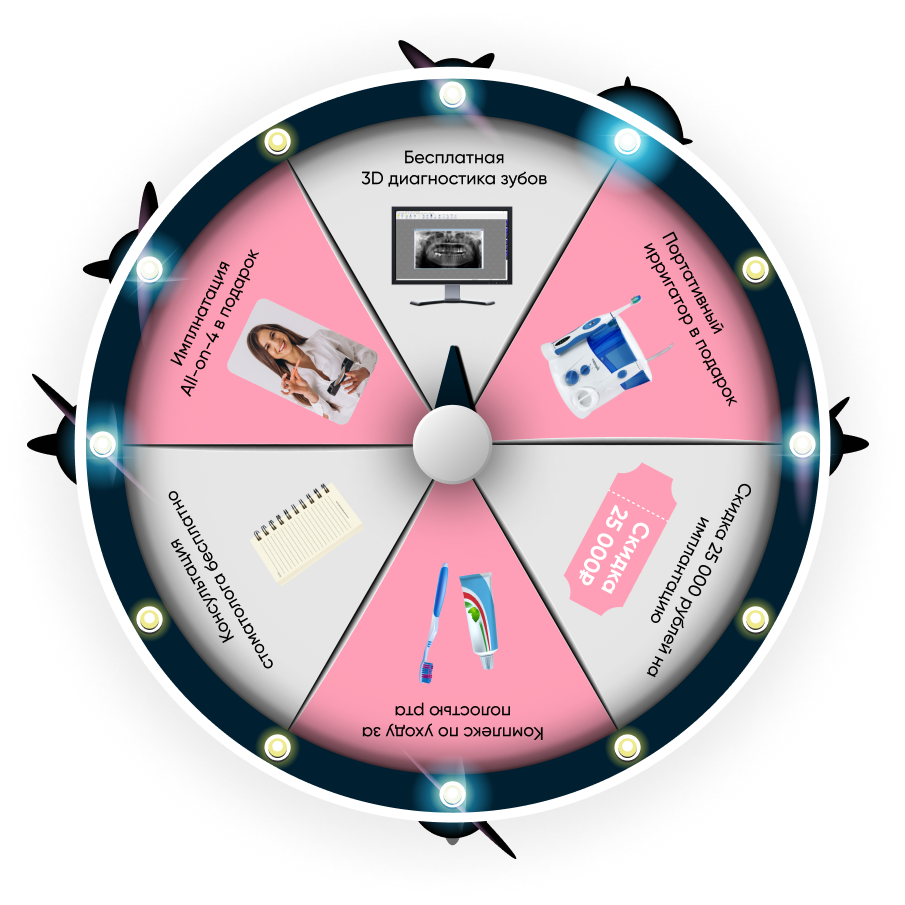
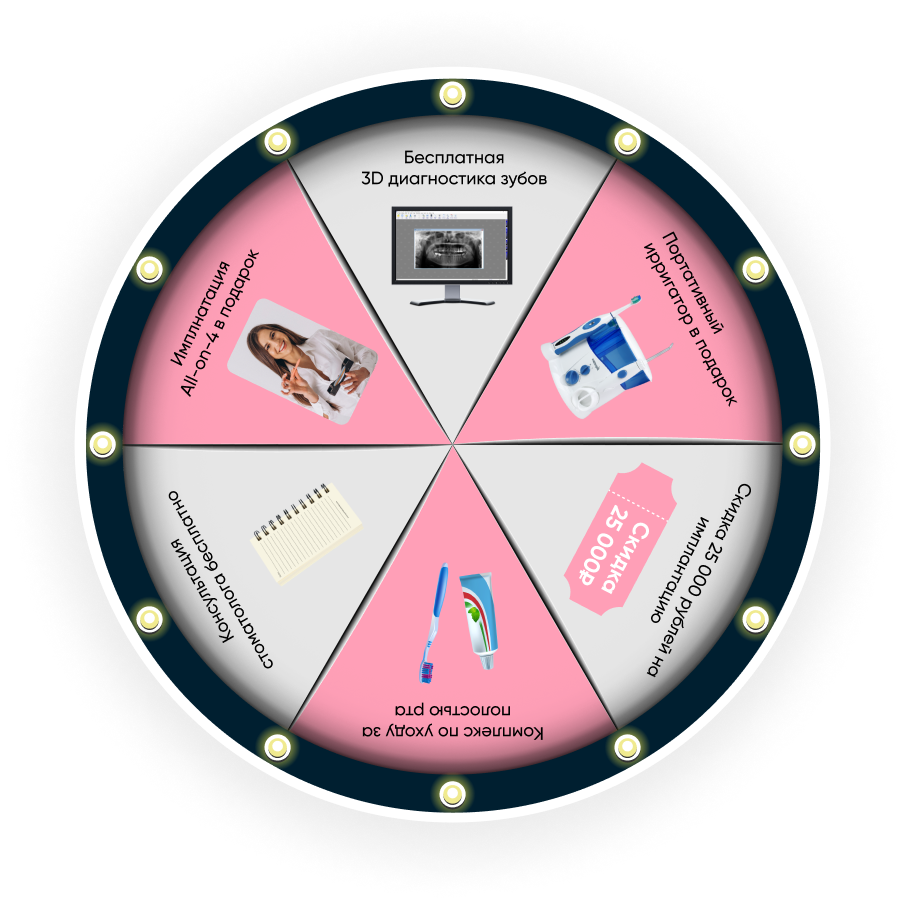
add wheel mobile styles

diff --git a/assets/styles/input.scss b/assets/styles/input.scss
@@ -1023,9 +1023,10 @@ line-height: 18px;
   @media screen and (max-width: $mobile) {
     width: 154.82px;
     height: 36px;
-    margin-left: 50px;
-    font-size: 18px;
-    line-height: 17px;
+    margin-left: 20px;
+    font-size: 10.19px;
+    line-height: 12.31px;
+    margin-bottom: 20px;
     }
 }
 
@@ -1044,6 +1045,11 @@ line-height: 18px;
   @media screen and (max-width: $tablet) {
     font-size: 18px;
     line-height: 17px;
+    }
+
+  @media screen and (max-width: $mobile) {
+    font-size: 10.19px;
+    line-height: 12.31px;
     }
   }
 
@@ -1074,6 +1080,15 @@ line-height: 18px;
     margin-left: 50px;
     margin-bottom: 20px;
     }
+
+  @media screen and (max-width: $mobile) {
+    width: 130px;
+    height: 12px;
+    font-size: 10.19px;
+    line-height: 12.31px;
+    margin-left: 20px;
+    margin-bottom: 20px;
+    }
 }
 
 .put {
@@ -1094,14 +1109,23 @@ line-height: 18px;
     margin-left: 80px;
     }
 
-    @media screen and (max-width: $tablet) {
-      width: 130px;
-      height: 4px;
-      font-size: 5.67px;
-      line-height: 8px;
-      margin-left: 50px;
-      margin-bottom: 17px;
-      }
+  @media screen and (max-width: $tablet) {
+    width: 130px;
+    height: 4px;
+    font-size: 5.67px;
+    line-height: 8px;
+    margin-left: 50px;
+    margin-bottom: 17px;
+    }
+
+  @media screen and (max-width: $mobile) {
+    width: 76px;
+    height: 4px;
+    font-size: 3.67px;
+    line-height: 4.32px;
+    margin-left: 20px;
+    margin-bottom: 12px;
+    }
 }
 
 .phone-input {
@@ -1140,6 +1164,11 @@ line-height: 18px;
     font-size: 12.22px;
     line-height: 14.78px;
     }
+
+  @media screen and (max-width: $mobile) {
+    width: 100px;
+    margin-left: 20px;
+    }
 }
 
 .phone-input-button {
@@ -1174,6 +1203,12 @@ line-height: 18px;
     font-size: 12.22px;
     line-height: 14.78px;
     }
+
+  @media screen and (max-width: $mobile) {
+    width: 100px;
+    margin-left: 20px;
+    font-size: 8px;
+    }
 }
 
 .wheel-container {
@@ -1196,7 +1231,7 @@ line-height: 18px;
   @media screen and (max-width: $mobile) {
     @include mobile-container;
     top: -150px;
-    left: 100px;
+    left: 60px;
   }
 }
 
@@ -1220,6 +1255,11 @@ line-height: 18px;
   @media screen and (max-width: $tablet) {
     width: 370px;
     height: 370px;
+    }
+
+  @media screen and (max-width: $mobile) {
+    width: 190px;
+    height: 190px;
     }
 }
 
@@ -1300,5 +1340,12 @@ position: absolute;
     height: 100px;
     top: 132px;
     left: 135px;
+    }
+
+  @media screen and (max-width: $mobile) {
+    width: 80px;
+    height: 80px;
+    top: 57px;
+    left: 56px;
     }
 }

diff --git a/assets/styles/style.css b/assets/styles/style.css
@@ -1207,9 +1207,10 @@ ul {
   .text {
     width: 154.82px;
     height: 36px;
-    margin-left: 50px;
-    font-size: 18px;
-    line-height: 17px;
+    margin-left: 20px;
+    font-size: 10.19px;
+    line-height: 12.31px;
+    margin-bottom: 20px;
   }
 }
 
@@ -1230,6 +1231,12 @@ ul {
   .bluetext {
     font-size: 18px;
     line-height: 17px;
+  }
+}
+@media screen and (max-width: 340px) {
+  .bluetext {
+    font-size: 10.19px;
+    line-height: 12.31px;
   }
 }
 
@@ -1263,6 +1270,16 @@ ul {
     margin-bottom: 20px;
   }
 }
+@media screen and (max-width: 340px) {
+  .text1 {
+    width: 130px;
+    height: 12px;
+    font-size: 10.19px;
+    line-height: 12.31px;
+    margin-left: 20px;
+    margin-bottom: 20px;
+  }
+}
 
 .put {
   width: 374px;
@@ -1291,6 +1308,16 @@ ul {
     line-height: 8px;
     margin-left: 50px;
     margin-bottom: 17px;
+  }
+}
+@media screen and (max-width: 340px) {
+  .put {
+    width: 76px;
+    height: 4px;
+    font-size: 3.67px;
+    line-height: 4.32px;
+    margin-left: 20px;
+    margin-bottom: 12px;
   }
 }
 
@@ -1333,6 +1360,12 @@ ul {
     line-height: 14.78px;
   }
 }
+@media screen and (max-width: 340px) {
+  .phone-input-input {
+    width: 100px;
+    margin-left: 20px;
+  }
+}
 
 .phone-input-button {
   width: 772.24px;
@@ -1369,6 +1402,13 @@ ul {
     line-height: 14.78px;
   }
 }
+@media screen and (max-width: 340px) {
+  .phone-input-button {
+    width: 100px;
+    margin-left: 20px;
+    font-size: 8px;
+  }
+}
 
 .wheel-container {
   position: relative;
@@ -1396,7 +1436,7 @@ ul {
     max-width: 328.39px;
     margin: 0 auto;
     top: -150px;
-    left: 100px;
+    left: 60px;
   }
 }
 
@@ -1422,6 +1462,12 @@ ul {
   .wheel {
     width: 370px;
     height: 370px;
+  }
+}
+@media screen and (max-width: 340px) {
+  .wheel {
+    width: 190px;
+    height: 190px;
   }
 }
 
@@ -1498,6 +1544,14 @@ ul {
     height: 100px;
     top: 132px;
     left: 135px;
+  }
+}
+@media screen and (max-width: 340px) {
+  .arrow {
+    width: 80px;
+    height: 80px;
+    top: 57px;
+    left: 56px;
   }
 }
 
